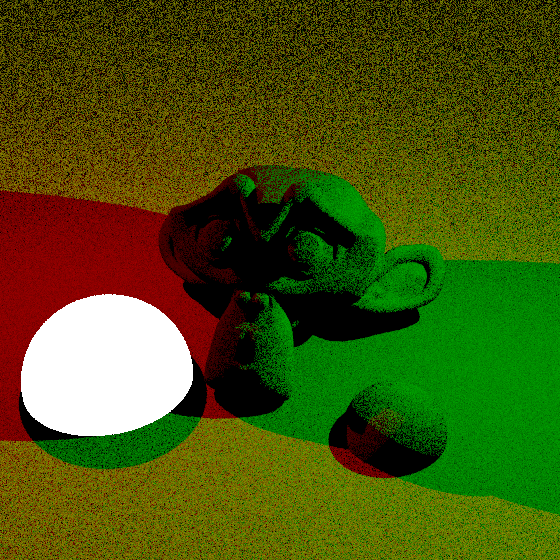
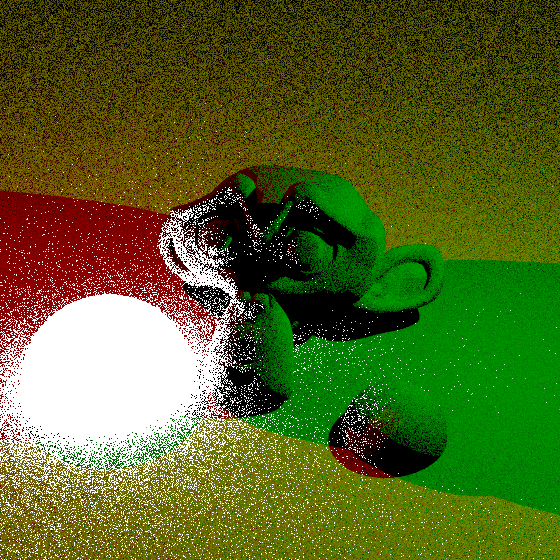
Direct only renderer: added illuminaires

diff --git a/src/ray/renderer/ProjSolidAngleIlluminator.java b/src/ray/renderer/ProjSolidAngleIlluminator.java
@@ -53,13 +53,7 @@ public class ProjSolidAngleIlluminator extends DirectIlluminator {
     	
     	Material mat = iRec.surface.getMaterial();
     	BRDF matBRDF = mat.getBRDF(iRec);
-    	
-    	Color outWeight = new Color();
-    	
-    	matBRDF.generate(iRec.frame,null,outDir,seed,outWeight);
-    	outDir.normalize();
-   	    					
-    					
+    	    					
     	//Point of intersection of the ray with the surface.
    		Point3 P = iRec.frame.o;
    		
@@ -75,7 +69,14 @@ public class ProjSolidAngleIlluminator extends DirectIlluminator {
         
         //Ambient lighting.
 	   	scene.getBackground().evaluate(outDir,ambColor);
+	   	
+	   	//Material color
     	matBRDF.evaluate( iRec.frame, incDir , outDir, matColor );
+    	
+    	//Radiance at this point
+    	Color outWeight = new Color();
+    	matBRDF.generate(iRec.frame,incDir,outDir,seed,outWeight);
+    	outDir.normalize();
     	        	
     	double r = ambColor.r * matColor.r;
     	double g = ambColor.g * matColor.g;
@@ -94,7 +95,8 @@ public class ProjSolidAngleIlluminator extends DirectIlluminator {
    										(light.location.z-P.z));
    			
    			L.normalize();
-   				
+   			iRec.frame.frameToCanonical( L );
+   			
    			//Make a shadow ray. A ray from the location of incidence to
    			//light source.
    			IntersectionRecord iRecBounce = new IntersectionRecord();
@@ -115,12 +117,18 @@ public class ProjSolidAngleIlluminator extends DirectIlluminator {
    			
    		}
    		
-   		//Color outRadiance = new Color();
-   		//scene.incidentRadiance(P,outDir,outRadiance);
+   		//Add light from illuminaraires
     	
-    	outColor.set(	outWeight.r*r,
-    					outWeight.g*g,
-    					outWeight.b*b);
+   		//Radiance from illuminaire.
+   		Color outRadiance = new Color(0.0,0.0,0.0);
+   		scene.incidentRadiance( P, outDir, outRadiance);
+
+    	double matPDF = Math.PI * matBRDF.pdf(iRec.frame,outDir,incDir);
+    	
+    	outColor.set(	outWeight.r*r + outRadiance.r*matColor.r*matPDF,
+    					outWeight.g*g + outRadiance.g*matColor.g*matPDF,
+    					outWeight.b*b + outRadiance.b*matColor.b*matPDF);
+    					
     }
     
 }
